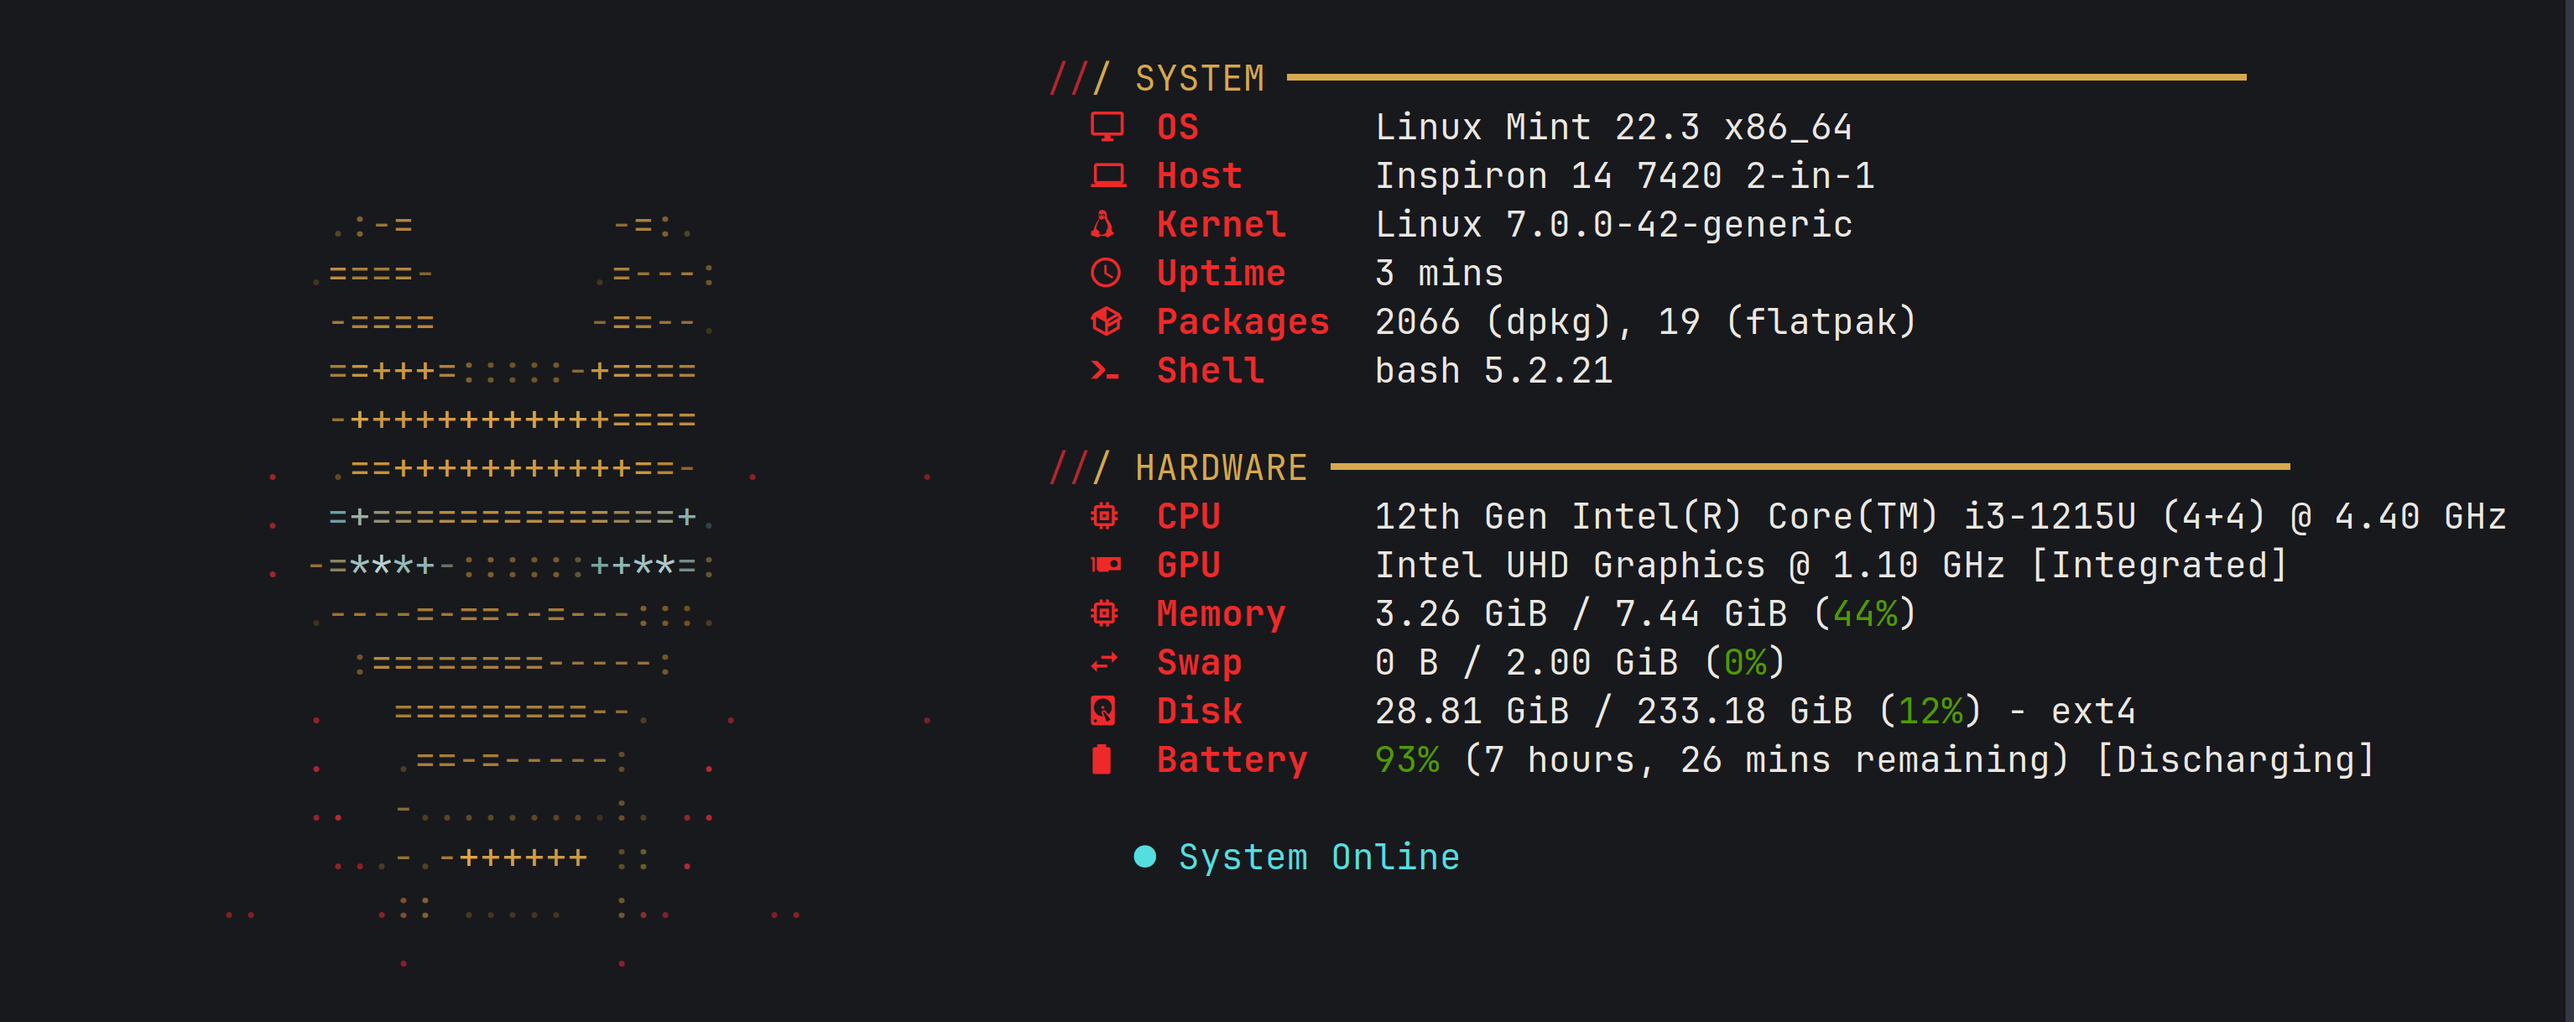
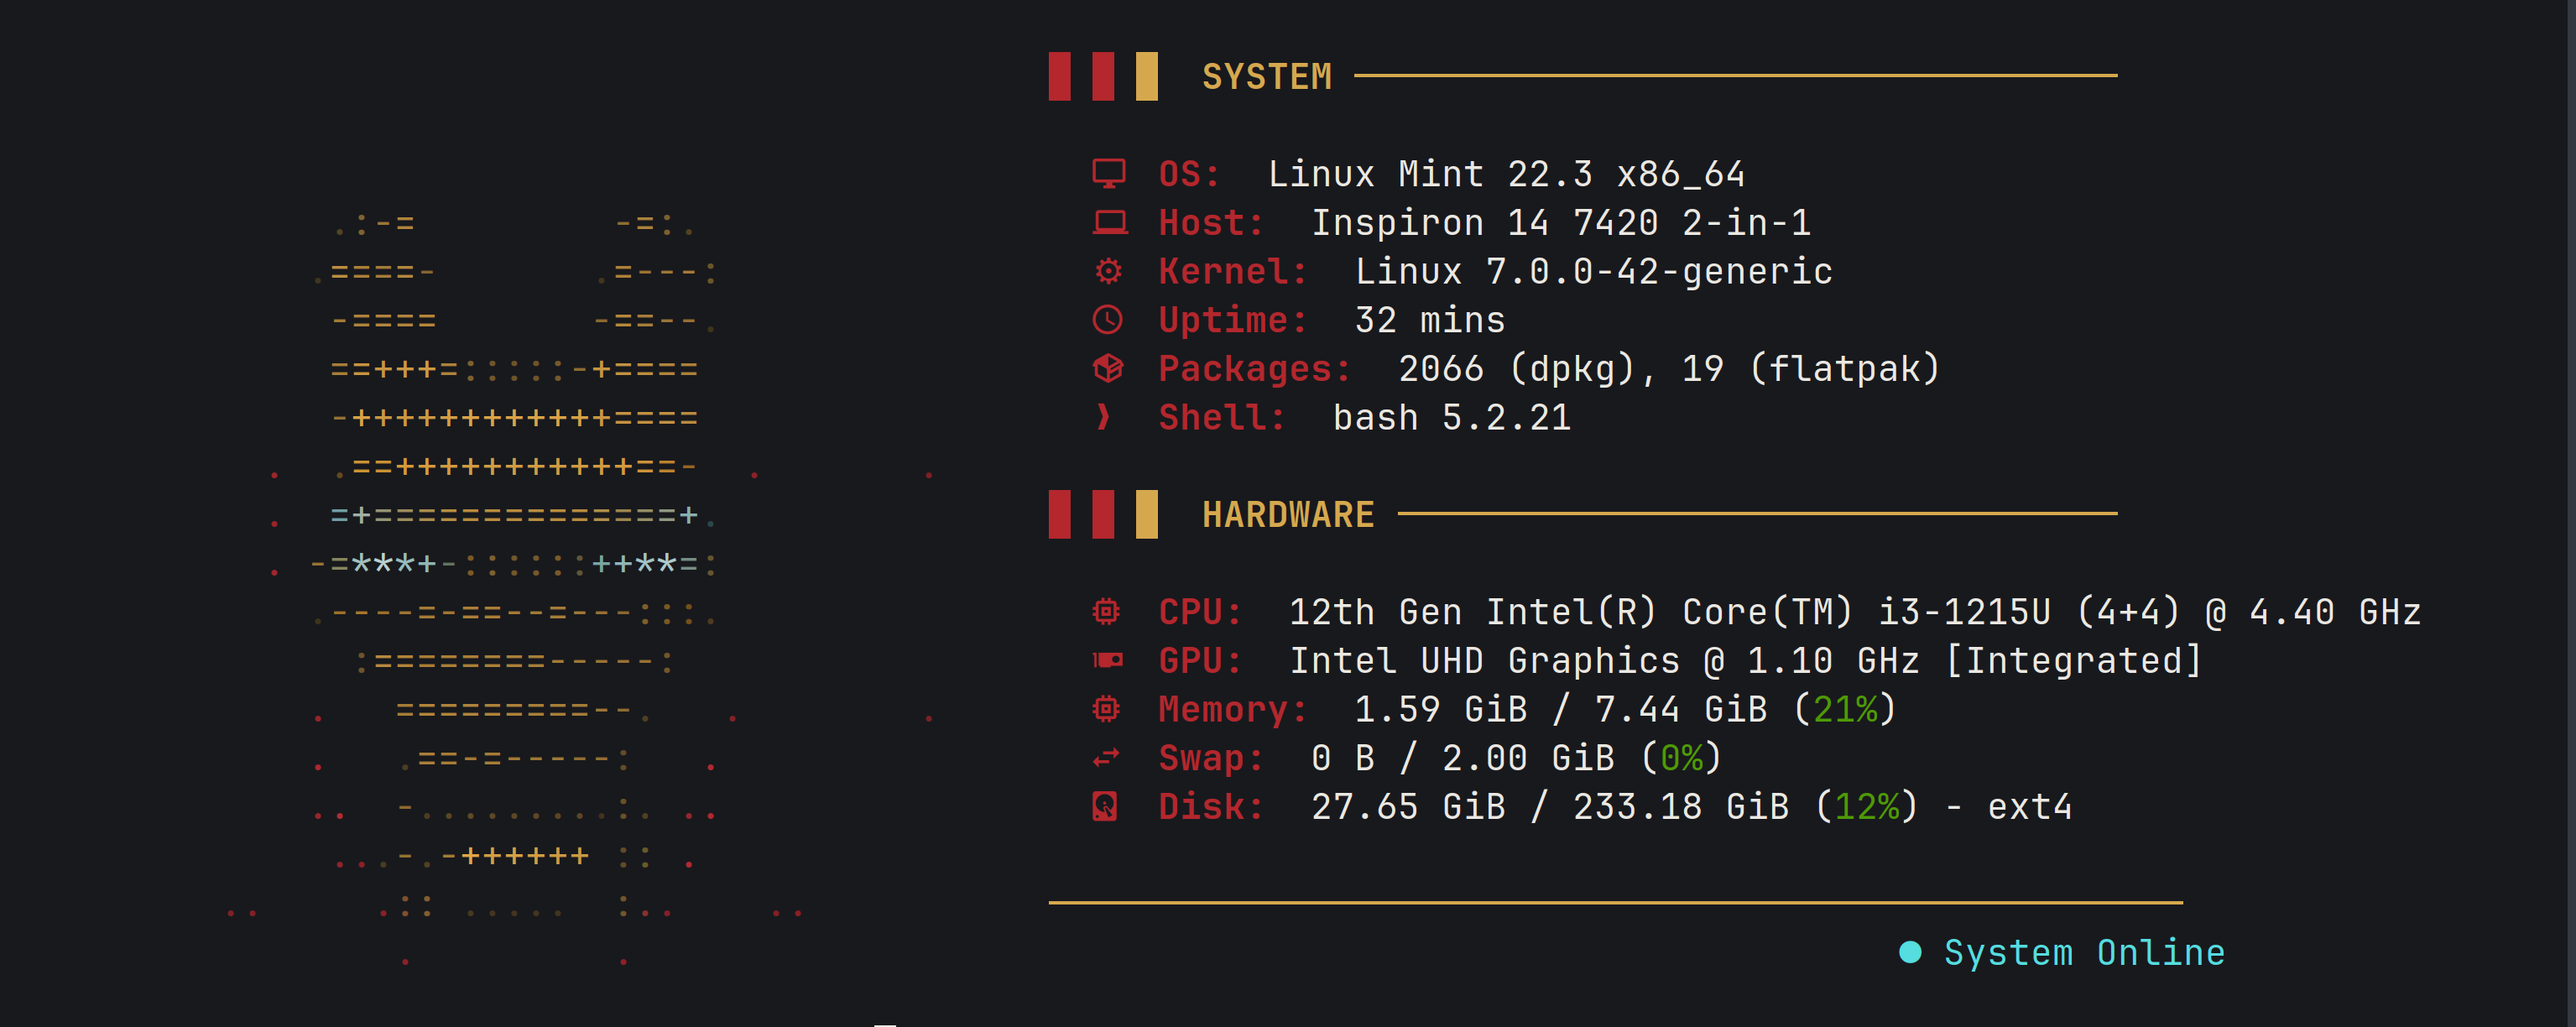
docs: prepare v0.3.0 release and removed unneccessary png

diff --git a/README.md b/README.md
@@ -1,6 +1,6 @@
 # Stark Mint
 
-**A quiet graphite workspace with purposeful gold, red and cyan accents. Industrial in appearance, minimal in everyday use.**
+**A quiet graphite workspace with purposeful gold and red accents. Industrial in appearance, minimal in everyday use.**
 
 Stark Mint is an open-source desktop theme inspired by the Iron Man Mark III armour and the Stark Industries aesthetic.
 
@@ -8,7 +8,7 @@ It is built on the `Everforest-Green-Dark` variant of [Everforest-GTK-Theme](htt
 
 The project targets Linux Mint Cinnamon first, with generic styling for other GTK desktops.
 
-**Current version:** 0.2.0
+**Current version:** 0.3.0
 
 ---
 
@@ -16,6 +16,7 @@ The project targets Linux Mint Cinnamon first, with generic styling for other GT
 
 - [Design philosophy](#design-philosophy)
 - [Preview](#preview)
+- [Matching icon theme](#matching-icon-theme)
 - [Colour palette](#colour-palette)
 - [Typography](#typography)
 - [What is implemented](#what-is-implemented)
@@ -93,6 +94,23 @@ These are manual customisations and are not automatically applied by the theme i
 
 ![Stark Mint terminal preview](preview/terminal.png)
 
+## Matching icon theme
+
+[Stark Icons](https://github.com/karthikeyamadhavan123/Stark-Icons) is the
+companion icon theme — same palette, same graphite-and-gold direction. It is an
+adaptation of Dracula Icons with six signature desktop icons redrawn in the
+Stark palette.
+
+```bash
+git clone https://github.com/karthikeyamadhavan123/Stark-Icons ~/.icons/Stark-Icons
+gtk-update-icon-cache -f ~/.icons/Stark-Icons
+```
+
+Then **Themes → Icons → Stark Icons**. Either theme works on its own, but they
+are built to be used together.
+
+---
+
 ## Colour palette
 
 These values are taken from the theme files themselves.
@@ -137,10 +155,10 @@ Cyan is not part of the desktop theme's accent system. It is reserved for limite
 
 The theme references a single font family, JetBrains Mono, bundled under `fonts/`. Hierarchy comes from weight and size rather than from a second or third family.
 
-| Weight                 | Used for                                                  |
-| ---------------------- | --------------------------------------------------------- |
-| JetBrains Mono Regular | General interface text, menus, labels, body copy          |
-| JetBrains Mono Medium  | Selected and active labels                                |
+| Weight                 | Used for                                                   |
+| ---------------------- | ---------------------------------------------------------- |
+| JetBrains Mono Regular | General interface text, menus, labels, body copy           |
+| JetBrains Mono Medium  | Selected and active labels                                 |
 | JetBrains Mono Bold    | Title bars, headings, calendar month and current-day label |
 
 When you let the installer change your desktop settings, it sets the interface font to JetBrains Mono 10, the title bar font to JetBrains Mono Bold 10, and the monospace font to JetBrains Mono 10. You can change these afterwards without breaking the theme.
@@ -303,7 +321,26 @@ The intended colour assignments are:
 | Working directory  | Cyan `#55DEE0`      |
 | Prompt symbol      | Stark Red `#B3272D` |
 
-Configure the terminal background and foreground through your terminal emulator's profile settings. The Bash prompt can be configured separately in `~/.bashrc`.
+Configure the terminal background and foreground through your terminal emulator's profile settings.
+
+For the prompt, add this line to the end of `~/.bashrc`:
+
+```bash
+PS1='\[\033[38;2;214;168;78m\]\u\[\033[38;2;165;169;178m\]@\h\[\033[0m\]:\[\033[38;2;85;222;224m\]\w\[\033[38;2;179;39;45m\]\$\[\033[0m\] '
+```
+
+Then reload with `source ~/.bashrc`, or open a new terminal.
+
+That gives a gold username, silver `@hostname`, cyan working directory and a
+Stark red prompt symbol, matching the table above. It uses 24-bit colour
+escapes, so the exact hex values come through on any terminal with truecolor
+support. Mint's default terminal has it.
+
+To go back to the Mint default, remove the line, or replace it with:
+
+```bash
+PS1='\[\033[01;32m\]\u@\h\[\033[00m\]:\[\033[01;34m\]\w\[\033[00m\]\$ '
+```
 
 These changes are not installed or modified by the Stark Mint theme installer.
 
@@ -419,7 +456,9 @@ To apply Stark Mint to Flatpak applications:
 
 5. Restart the affected application.
 
-## **Note:** Some applications, particularly those using libadwaita, may not support complete GTK theme customisation. Appearance can vary between applications
+> **Note:** Some applications, particularly those using libadwaita, may not
+> support complete GTK theme customisation. Appearance can vary between
+> applications.
 
 ## Planned work
 
@@ -472,9 +511,13 @@ Please read those notices before you redistribute this theme or any part of it.
 
 ## Some Proofs
 
-<img width="3019" height="1667" alt="work2" src="https://github.com/user-attachments/assets/29a082a6-b16d-427a-b5c2-5edf036d5248" />
-<img width="2677" height="1920" alt="work1" src="https://github.com/user-attachments/assets/11d072ac-fd0e-4d30-9ed6-a5ff35316612" />
-<img width="3072" height="1920" alt="work" src="https://github.com/user-attachments/assets/3faaf37f-cd0c-440a-9380-c05335fd36ae" />
+Stark Mint and Stark Icons running together on Linux Mint Cinnamon.
+
+![Stark Mint desktop](preview/stark-mint-desktop.png)
+
+![Stark Mint menu](preview/menu.png)
+
+![Stark Mint terminal](preview/terminal.png)
 
 ---
 

diff --git a/CHANGELOG.md b/CHANGELOG.md
@@ -1,24 +1,65 @@
 # Changelog
 
-## 0.2.0 — colour system correction (November 2026)
-
-## Unreleased
+## 0.3.0 — typography, window controls and documentation (November 2026)
 
 ### Added
 
 - Original triangular Arc Reactor Cinnamon menu icon.
+- Gold hover styling for the Metacity maximize and unmaximize buttons:
+  `maximize-bg-hover.svg` and `maximize-bg-pressed.svg`, applied to the
+  prelight and pressed states of `maximize_{focused,unfocused}` and
+  `unmaximize_{focused,unfocused}` in all three Metacity theme variants.
+- Matching `titlebutton` rules in `gtk-3.0/gtk.css`, `gtk-3.0/gtk-dark.css`,
+  `gtk-4.0/gtk.css` and `gtk-4.0/gtk-dark.css`, so client-side decorated
+  applications get the same close and maximize colours as server-side ones.
+- A Stark-palette Bash prompt in the README's Manual configuration section.
+- A link to [Stark Icons](https://github.com/karthikeyamadhavan123/Stark-Icons),
+  the companion icon theme.
 
 ### Changed
 
-- Refined Metacity/Muffin close button styling.
-- Updated maximize/restore button hover styling.
+- **Typography unified on JetBrains Mono.** Barlow and Barlow Semi Condensed
+  removed entirely. Hierarchy now comes from weight: 400 for interface text,
+  500 for selected labels, 700 for title bars, headings and the calendar month
+  and current-day labels. Every `font-family` declaration in `cinnamon.css`,
+  `gnome-shell.css` and the four GTK stylesheets was updated, along with the
+  font keys set by `install.sh`.
+- **Close button redesigned.** Solid Stark red with a white cross, replacing the
+  dark plate with a red outline. `#B3272D` at rest, `#C93037` on hover,
+  `#8E1F24` pressed. The three `close-bg*.svg` assets were rewritten as solid
+  fills with no stroke.
+- `fonts/` now contains JetBrains Mono only: the variable font plus the static
+  faces. `OFL-Barlow.txt` and all Barlow files removed.
+- `README.md`, `DESIGN.md` and `CREDITS.md` rewritten around the single font
+  family and the weight scale.
+
+### Fixed
+
+- A paragraph in the README was formatted as an `##` heading, so it appeared in
+  the document outline as a section. It is now a note.
+- The "Some Proofs" section used images hosted outside the repository. It now
+  uses the screenshots in `preview/`.
+- The summary line described the theme as having cyan accents, contradicting
+  the colour palette section, which states that cyan is not part of the desktop
+  accent system.
+
+### Known gaps
+
+- `fonts/` carries static faces for Light, Medium, SemiBold, ExtraBold and Thin
+  that register under their own family names and cannot be reached by
+  `font-weight`. Those weights come from the variable font. The statics are
+  harmless but redundant.
+- `32/actions` is declared in the icon theme's `index.theme` upstream but has
+  never existed. Inherited, not introduced here.
+
+## Unreleased
 
 ### Planned
 
 - Cinnamon logout button refinement.
-- Basic application icon set.
 - Installer improvements.
-- Documentation updates.
+
+## 0.2.0 — colour system correction (November 2026)
 
 Cyan, teal and blue accents are removed. Stark Mint now has two accent families,
 **Metallic Gold** `#D6A84E` and **Stark Red** `#B3272D`, plus the existing neutrals.
